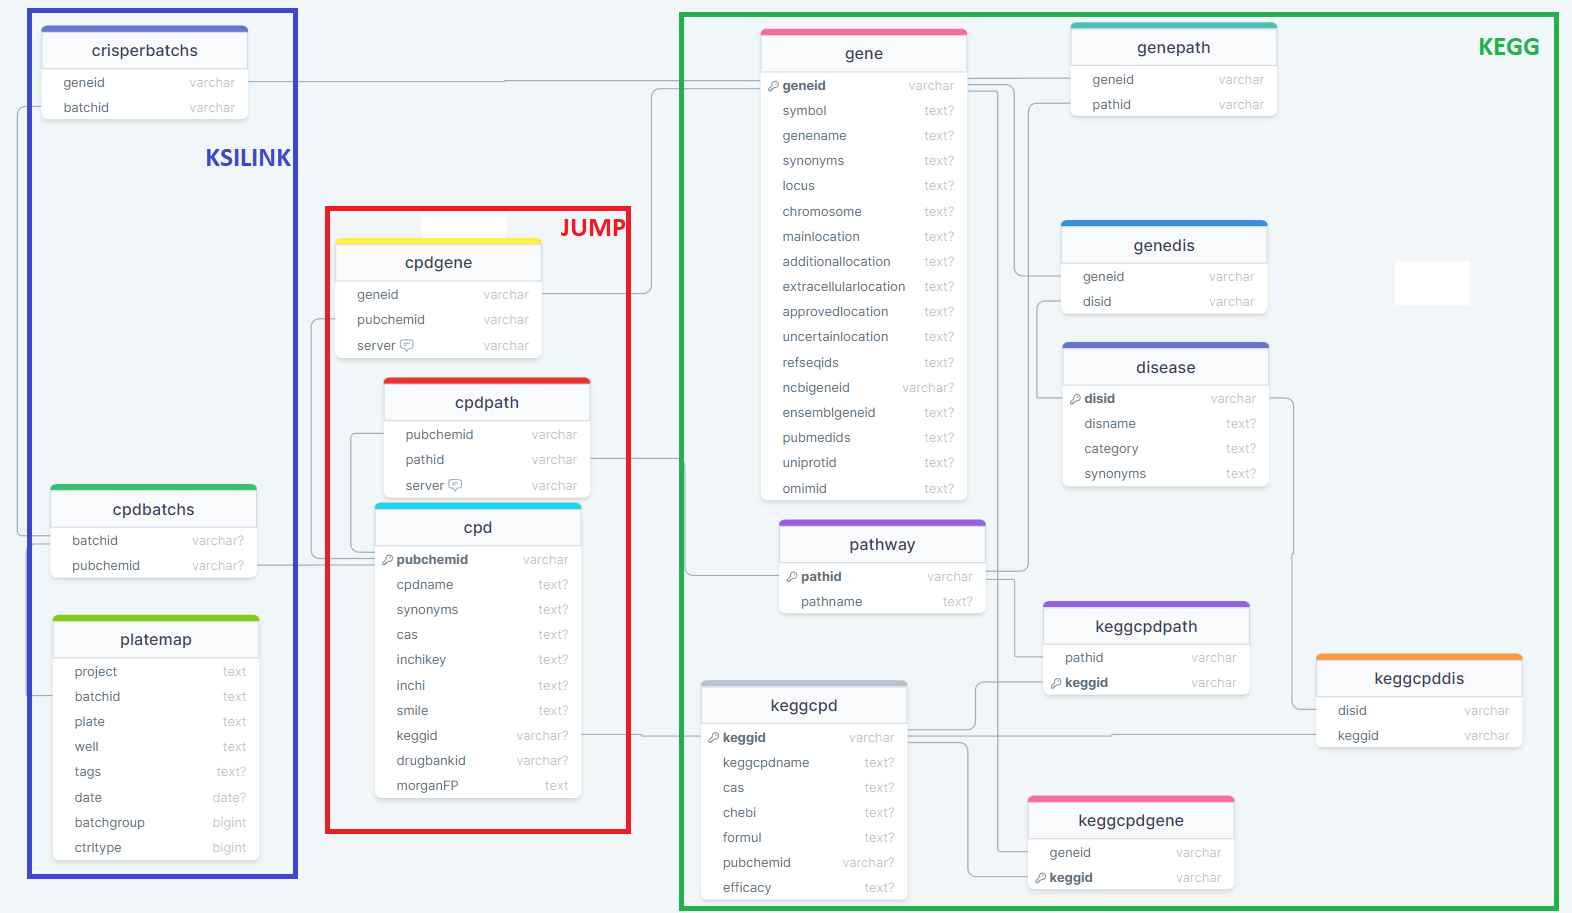
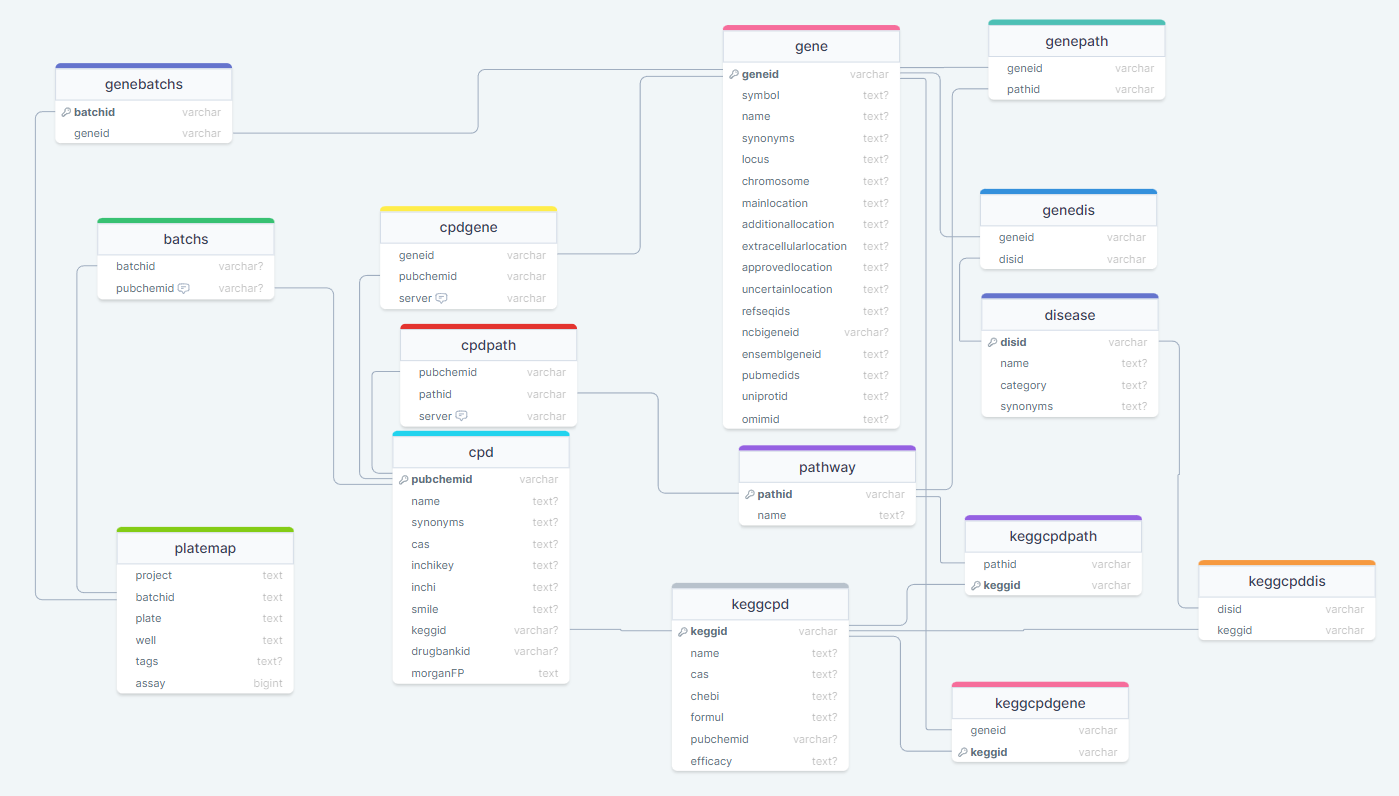
add ORF and BRD cpds, change genebatchs and aggprofile

diff --git a/pages/3_Find_Similar_Profiles.py b/pages/3_Find_Similar_Profiles.py
@@ -49,10 +49,10 @@ else:
         st.write("Selected Profile", df_sel)
 
     # ---- source and crisper profile ----------------------------------------------------------------------------
-    sql_profile = f"select * from aggcombatprofile where metasource='{choix_source}'"
+    sql_profile = f"select * from aggprofile where metasource='{choix_source}'"
     df_source = sql_df(sql_profile, profile_conn)
 
-    sql_crisper_profile = f"SELECT * FROM aggcombatprofile WHERE metasource='CRISPER'"
+    sql_crisper_profile = f"SELECT * FROM aggprofile WHERE metasource='CRISPER' or metasource='Broad-ORF'"
     df_prof_crisper = sql_df(sql_crisper_profile, profile_conn)
 
     # umap--------------------------------------------------------
@@ -106,7 +106,7 @@ else:
         df_keep_prof_cpd = pd.DataFrame()
         
         if len(b_list_cpd) > 0:
-            if choix_source != "CRISPER":
+            if (choix_source != "CRISPER") and (choix_source != "Broad-ORF"):
                 sql_cpds = f"SELECT cpd.pubchemid, cpd.keggid, cpd.cpdname, gene.symbol, cpd.smile, cpdgene.geneid, cpdbatchs.batchid, keggcpd.efficacy FROM cpd \
                             INNER JOIN cpdbatchs ON cpd.pubchemid=cpdbatchs.pubchemid \
                             LEFT JOIN cpdgene ON cpdbatchs.pubchemid=cpdgene.pubchemid \
@@ -122,9 +122,9 @@ else:
                     df_keep_prof_cpd.loc[df_keep_prof_cpd.metacpdname == "No result", 'metacpdname'] = None
                     df_keep_prof_cpd['metacpdname'] = df_keep_prof_cpd['metacpdname'].str[:30].fillna(df_keep_prof_cpd['metabatchid'])
 
-            if choix_source == "CRISPER":
-                sql_crisper2 = f"SELECT gene.symbol, gene.geneid, crisperbatchs.batchid FROM crisperbatchs INNER JOIN gene \
-                                ON gene.geneid=crisperbatchs.geneid WHERE crisperbatchs.batchid IN ({','.join(b_list_cpd)}) GROUP BY gene.symbol, gene.geneid, crisperbatchs.batchid"
+            if (choix_source == "CRISPER") or (choix_source == "Broad-ORF"):
+                sql_crisper2 = f"SELECT gene.symbol, gene.geneid, genebatchs.batchid FROM genebatchs INNER JOIN gene \
+                                ON gene.geneid=genebatchs.geneid WHERE genebatchs.batchid IN ({','.join(b_list_cpd)}) GROUP BY gene.symbol, gene.geneid, genebatchs.batchid"
                 df_results_cpd = sql_df(sql_crisper2, conn).drop_duplicates(subset=["batchid"])
                 
                 if len(df_results_cpd) > 0:

diff --git a/pages/2_Get_Profiles.py b/pages/2_Get_Profiles.py
@@ -107,14 +107,14 @@ df_prof = pd.DataFrame()
 if str(option) == "gene" and len(df_res) > 0:
         geneid_lis = [f"'{geneid}'" for geneid in df_res["geneid"]]
         
-        sql_crisper = f"SELECT gene.symbol, gene.geneid,crisperbatchs.batchid  FROM crisperbatchs  inner join gene \
-            on gene.geneid=crisperbatchs.geneid  WHERE crisperbatchs.geneid IN ({','.join(geneid_lis)})  group by gene.symbol, gene.geneid,crisperbatchs.batchid "
+        sql_crisper = f"SELECT gene.symbol, gene.geneid,genebatchs.batchid  FROM genebatchs  inner join gene \
+            on gene.geneid=genebatchs.geneid  WHERE genebatchs.geneid IN ({','.join(geneid_lis)})  group by gene.symbol, gene.geneid,genebatchs.batchid "
         df_crisperBatchs = sql_df(
             sql_crisper, conn).drop_duplicates(subset=["batchid"])
         batch_list = [f"'{batchid}'" for batchid in df_crisperBatchs["batchid"]]
         if len(batch_list) > 0:
             sql_crisper_profile = (
-                f"SELECT * FROM aggcombatprofile WHERE metabatchid IN ({','.join(batch_list)})"
+                f"SELECT * FROM aggprofile WHERE metabatchid IN ({','.join(batch_list)})"
             )
 
             df_prof_crisper = sql_df(sql_crisper_profile, conn_profileDB)
@@ -254,7 +254,7 @@ if len(df_cpds) > 0:
         list_batchid = [f"'{batch}'" for batch in df_cpdGene_tmp["batchid"]]
     if len(list_batchid)>0:
         sql_profile = (
-            "select * from aggcombatprofile where metabatchid in ("
+            "select * from aggprofile where metabatchid in ("
             + ",".join(list_batchid)
             + ")"
         )
@@ -279,8 +279,8 @@ tab1, tab2, tab3, tab4 = st.tabs(
     [
         "compounds Profiles",
         "compounds Summary",
-        "Crisper Profiles",
-        "Crisper Summary",
+        "Crispr/ORF Profiles",
+        "Crispr/ORF Summary",
     ]
 )
 
